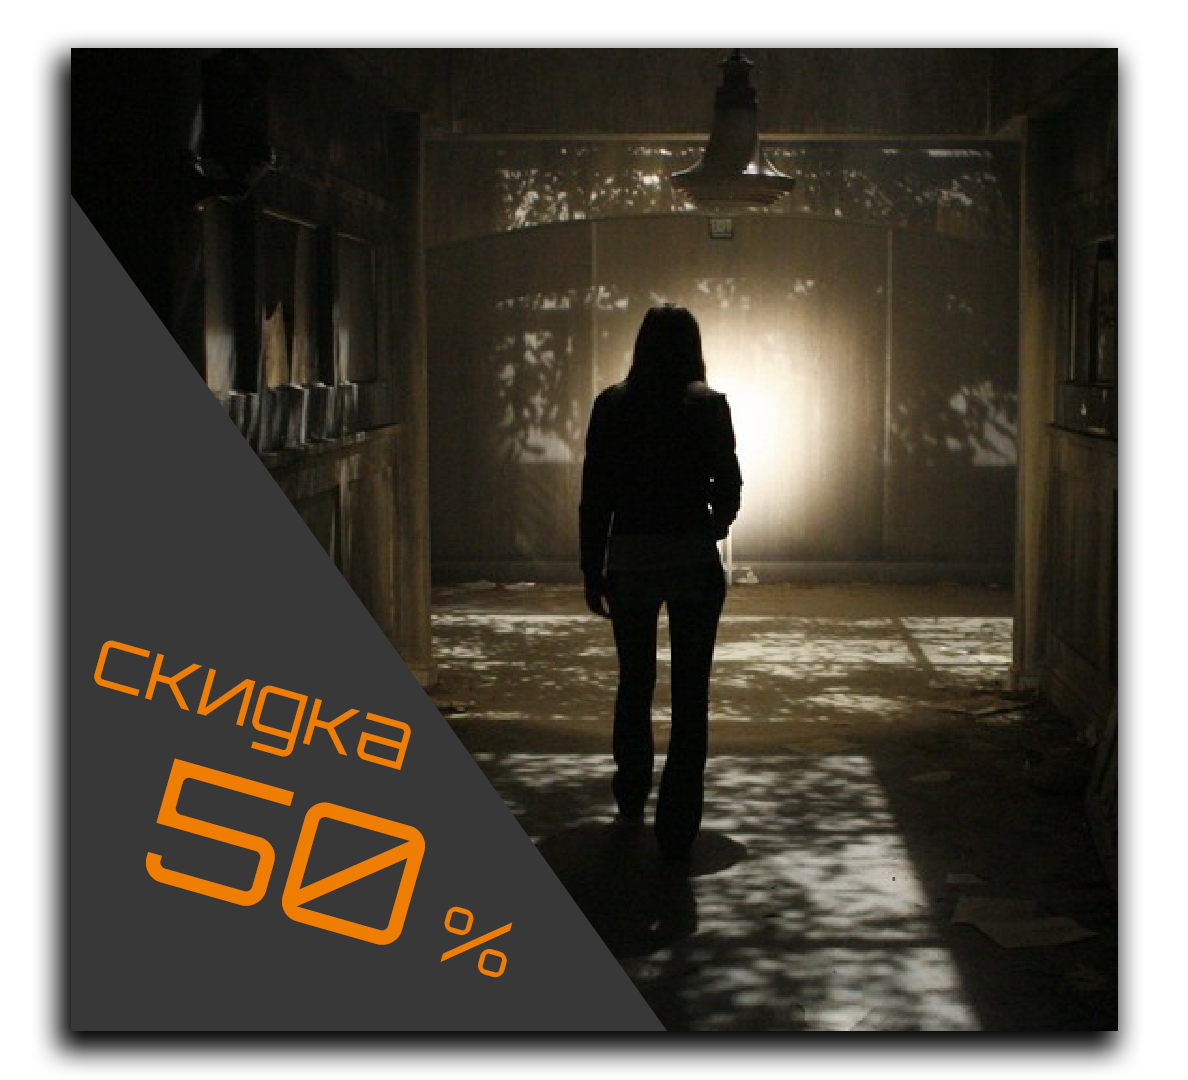
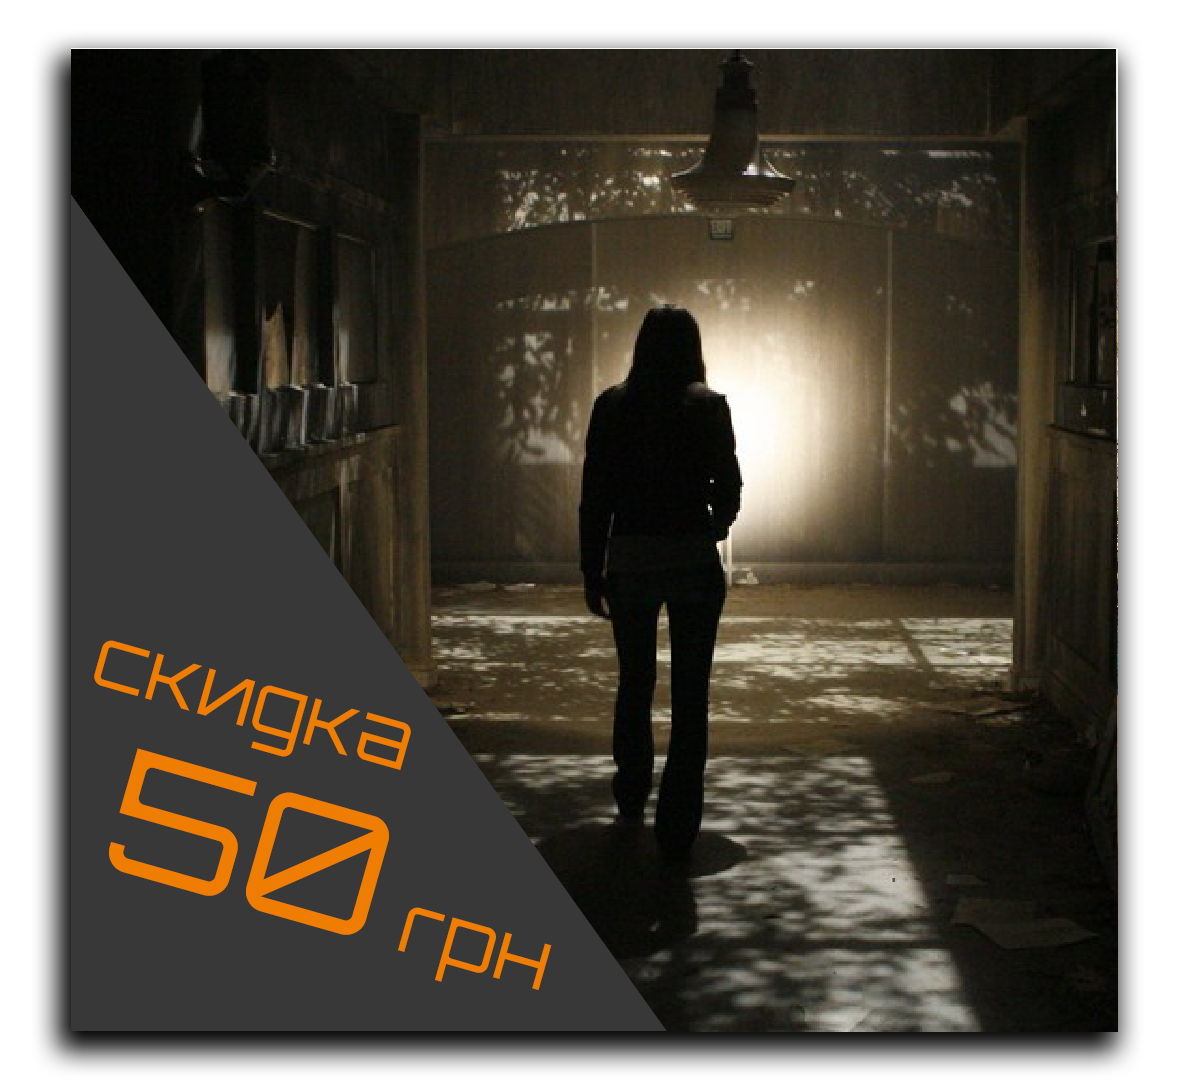
add - sending utm tags with form data

diff --git a/public/js/onSubmit.js b/public/js/onSubmit.js
@@ -1,17 +1,23 @@
 "use strict";
 
+/*import { parsingUTM } from "./parsingUTMParams";
+import { addMsgForm } from "./containerMsgSendForm";*/
+
 /**
  * Create new XMLHttpRequest for post form data to server.
  */
 
-var createRequest = (nameForm, nameUser, phoneUser) => {
+function createRequest (nameForm, nameUser, phoneUser) {
   //Handler for response event
-  var reqListener = () => console.log(this.responseText);
+  function reqListener () {
+    console.log(this.responseText);
+  }
 
   var formData = {
     nameForm: nameForm,
     nameUser: nameUser,
-    phoneUser: phoneUser
+    phoneUser: phoneUser,
+    utmParams: parsingUTM()
   };
 
   var oReq = new XMLHttpRequest();
@@ -25,20 +31,24 @@ var createRequest = (nameForm, nameUser, phoneUser) => {
       ? addMsgForm("success")
       : addMsgForm("error");
   };
-};
+}
 
 /**
- * On submit form.
+ * Handler for submit form.
  */
 
-var handlerForSubmitEvent = (event) => {
+/*export*/ function handlerForSubmitEvent (event) {
   var form = event.target;
   console.log(`Saving values: name ${form.nameUser.value} and phone ${form.phoneUser.value}`);
   event.preventDefault();
 
   createRequest(form.name, form.nameUser.value, form.phoneUser.value);
   form.reset();
-};
+}
+
+/**
+ * On submit form.
+ */
 
 [].forEach.call(document.querySelectorAll("form"), (element) => {
   element.addEventListener("submit", (event) => handlerForSubmitEvent(event));

diff --git a/public/index.html b/public/index.html
@@ -343,14 +343,16 @@
     <div class="b-discounts__container">
       <div class="discounts__birthday">
         <p>Скидка именинникам и студентам
- <span>(по предъявлению студенческого)</span></p>
+ <span>(по предъявлению студенческого)</span>
+        </p>
         <img src="./img/b-discounts/img-discount-bd&students.png" alt="Скидка 50 грн">
       </div>
 
       <div class="discounts__2nd-room">
-        <p>Скидка 50% на 2-ю квест комнату
-<span>(при прохождении в этот же день)</span></p>
-        <img src="./img/b-discounts/img-discount-2nd-room.png" alt="Скидка 50%">
+        <p>Скидка 50грн на 2-ю квест комнату
+<span>(при прохождении в этот же день)</span>
+        </p>
+        <img src="./img/b-discounts/img-discount-2nd-room.png" alt="Скидка 50грн">
       </div>
     </div>
   </section>
@@ -414,6 +416,7 @@
 
   <script src="./js/containerDetailView.js"></script>
   <script src="./js/containerMsgSendForm.js"></script>
+  <script src="js/parsingUTMTags.js"></script>
   <script src="./js/onSubmit.js"></script>
 </body>
 </html>

diff --git a/controllers/mailText.js b/controllers/mailText.js
@@ -1,13 +1,31 @@
 "use strict";
 
-var text = (title, nameUser, phoneUser) => {
-  return `
-    Заявка с сайта Погреб (основная) (pogreb.in.ua)
-    ${title}
-  
-    Имя - ${nameUser}
-    Телефон - ${phoneUser}
-  `
+var text = (title, nameUser, phoneUser, utmTags) => {
+  if (utmTags) {
+    return `
+      Заявка с сайта Погреб (основная) (pogreb.in.ua)
+      ${title}
+    
+      Имя - ${nameUser}
+      Телефон - ${phoneUser}
+      
+      UTM метки:
+      ${utmTags[0]}
+      ${utmTags[1]}
+      ${utmTags[2]}
+      ${utmTags[3]}
+    `
+  } else {
+    return `
+      Заявка с сайта Погреб (основная) (pogreb.in.ua)
+      ${title}
+    
+      Имя - ${nameUser}
+      Телефон - ${phoneUser}
+      
+      UTM меток не найдено.
+    `
+  }
 };
 
 module.exports = {text};

diff --git a/public/js/containerDetailView.js b/public/js/containerDetailView.js
@@ -1,10 +1,12 @@
 "use strict";
 
+/*import { handlerForSubmitEvent } from "./onSubmit";*/
+
 /**
  * Add container detail view.
  */
 
-var addDetailView = (btn, nameForm) => {
+function addDetailView (btn, nameForm) {
   var detailView = {
     safePopUp: {
       title: "Квест-комната \"Сейф Банкира\"",
@@ -48,13 +50,15 @@ var addDetailView = (btn, nameForm) => {
 
   var form = containerDetailView.lastElementChild;
   form.addEventListener("submit", (event) => handlerForSubmitEvent(event));
-};
+}
 
 /**
  * Remove container detail view.
  */
 
-var removeDetailView = (el) => el.parentElement.removeChild(el);
+function removeDetailView (el) {
+  el.parentElement.removeChild(el);
+}
 
 /**
  * Button-click handler for render container detail view.

diff --git a/public/js/containerMsgSendForm.js b/public/js/containerMsgSendForm.js
@@ -4,7 +4,7 @@
  * Add container message about status form.
  */
 
-var addMsgForm = (status) => {
+/*export*/ function addMsgForm (status) {
   var msg = {
     success: {
       title: "Ваша заявка отправлена успешно!",
@@ -26,14 +26,14 @@ var addMsgForm = (status) => {
   document.body.appendChild(containerMsgForm);
 
   removeMsgForm(containerMsgForm);
-};
+}
 
 /**
  * Remove container message about status form..
  */
 
-var removeMsgForm = (el) => {
+function removeMsgForm (el) {
   setTimeout(function () {
     document.body.removeChild(el);
   }, 3000);
-};
+}

diff --git a/index.js b/index.js
@@ -38,7 +38,7 @@ app.use(express.static("public"));
  */
 
 app.use("/neworder", (req, res, next) => {
-  sendOrder.letterSend (mailText.text(req.body.nameForm, req.body.nameUser, req.body.phoneUser));
+  sendOrder.letterSend (mailText.text(req.body.nameForm, req.body.nameUser, req.body.phoneUser, req.body.utmParams));
   console.log(req.body);
   res.send("Succes!");
 });

diff --git a/public/js/parsingUTMTags.js b/public/js/parsingUTMTags.js
@@ -1,0 +1,16 @@
+"use strict";
+
+/**
+ * Parsing UTM tags.
+ */
+
+function parsingUTM () {
+  
+  var path = window.location.href.split("?");
+
+  if (path[1]) {
+    return path[1].split("&")
+  } else {
+    return null;
+  }
+}
